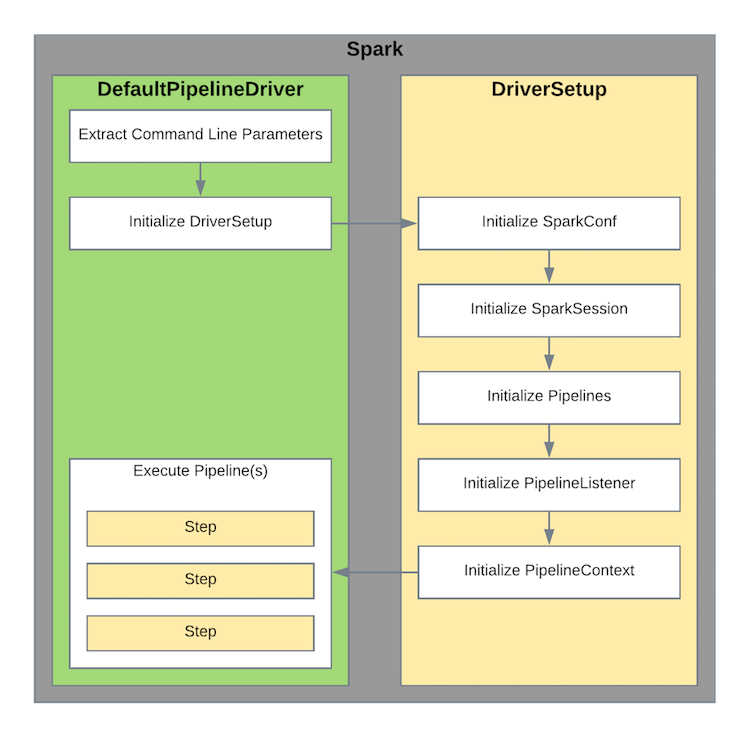
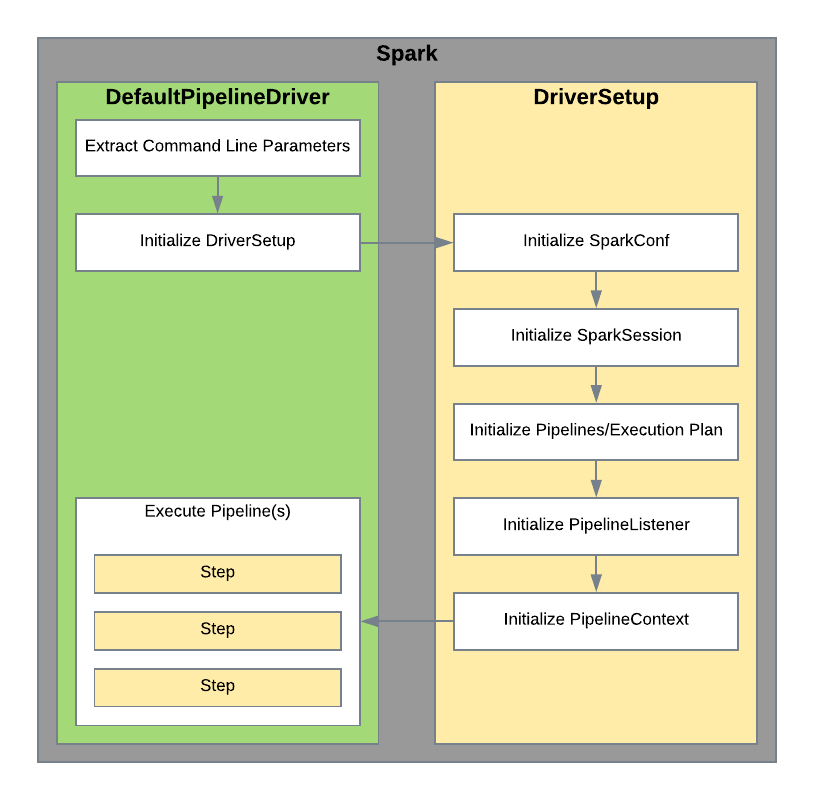
Updated main readme to include a brief discusion on execution plans.

diff --git a/readme.md b/readme.md
@@ -26,8 +26,12 @@ class name as a command line parameter. The driver will then call the different 
 This DriverSetup implementation is responsible for initializing the SparkConf and SparkSession. A utility object is
 provided named *DriverUtils* that can be used to create the SparkConf.
 
-##### Pipelines
-The *pipelines* function is responsible for returning a List of *Pipeline* objects that will be executed.
+##### Pipelines / Execution Plan
+The *executionPlan* function is responsible for returning a List of *PipelineExecution* objects that contain the
+*pipelines* that should be executed and the dependencies that should be observed. The *pipelines* function has 
+been deprecated and should only return an empty list. Any *DriverSetup* that still implements the *pipelines* function
+and not the *executionPlan* function will still work as the *DriverSetup* trait will convert the pipelines into an
+Execution Plan.
 
 ##### PipelineContext
 The *PipelineContext* needs to be initialized and refreshed. Streaming drivers will call the refresh function after each
